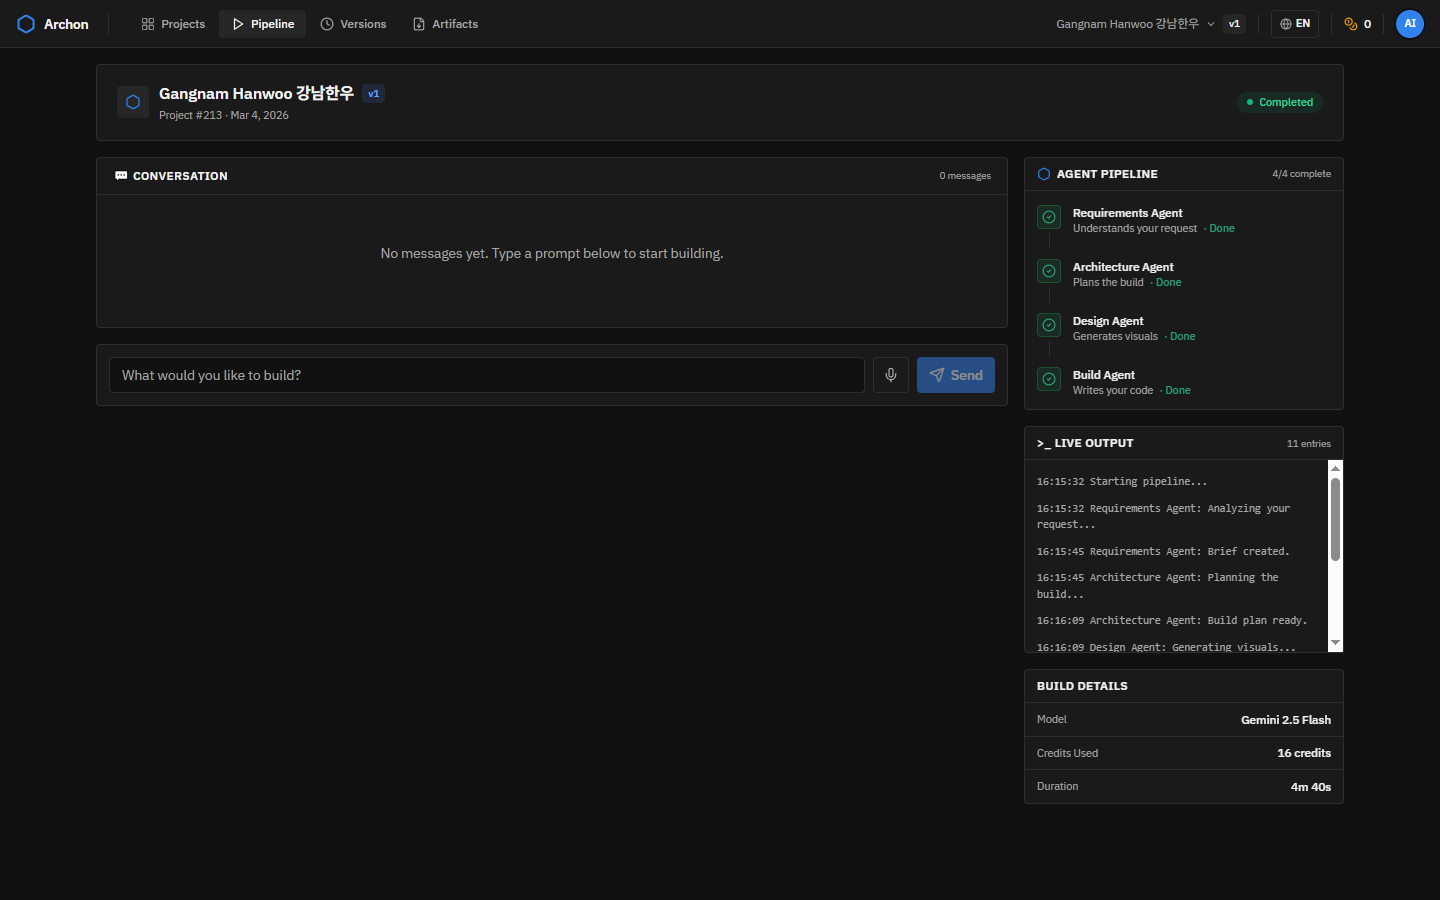
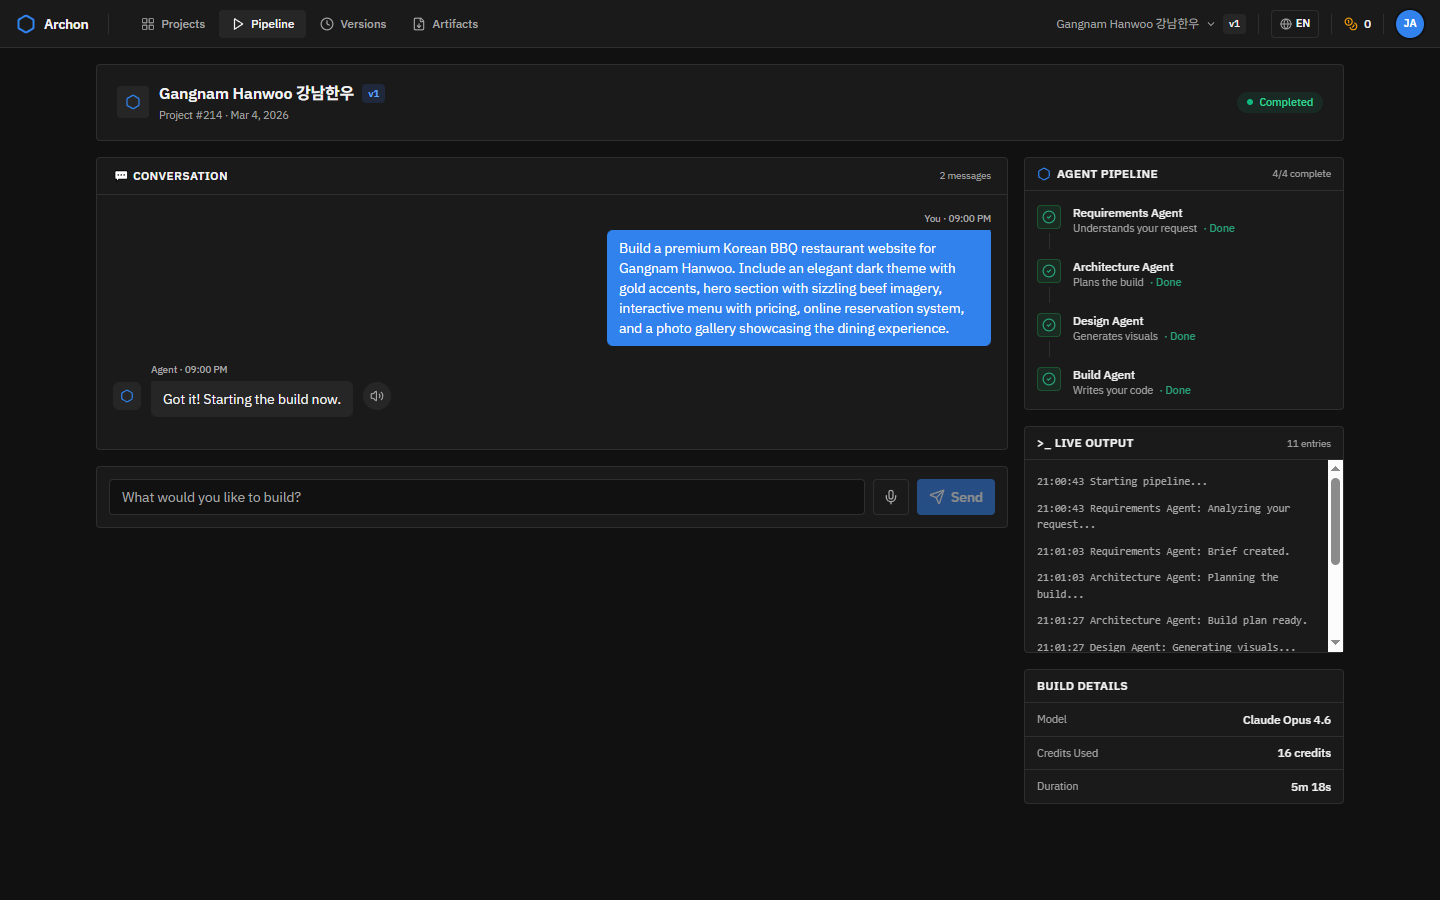
Polish README screenshots and fix model display
- Replace all screenshots with fresh 1440x900 captures from live app
- Fix hardcoded model_used from "Gemini 2.5 Flash" to "Claude Opus 4.6"
- Add consumer frontend landing page screenshot to README
- Regenerate demo-thumbnail at 1440x810 (16:9) with larger play button

diff --git a/backend/app.py b/backend/app.py
@@ -564,7 +564,7 @@ def run_full_pipeline_async(task_description: str, prompt_history: list = None, 
                 execution.plan_path = str(version_dir / "last_plan.json")
                 # Build metrics
                 execution.duration_seconds = round(time.time() - pipeline_start_time, 2)
-                execution.model_used = "Gemini 2.5 Flash"
+                execution.model_used = "Claude Opus 4.6"
                 if hasattr(result, "usage") and result.usage:
                     input_tokens = getattr(result.usage, "input_tokens", 0) or 0
                     output_tokens = getattr(result.usage, "output_tokens", 0) or 0

diff --git a/README.md b/README.md
@@ -65,6 +65,12 @@ Archon shows complete decision history with artifacts and live preview per versi
 </details>
 
 <details open>
+<summary><strong>Consumer Frontend — Prompt Interface</strong></summary>
+
+![Consumer Landing](docs/screenshots/consumer-landing.png)
+</details>
+
+<details open>
 <summary><strong>AI Governance — IBM Watson Factsheet</strong></summary>
 
 ![Governance](docs/screenshots/dashboard-governance.png)
